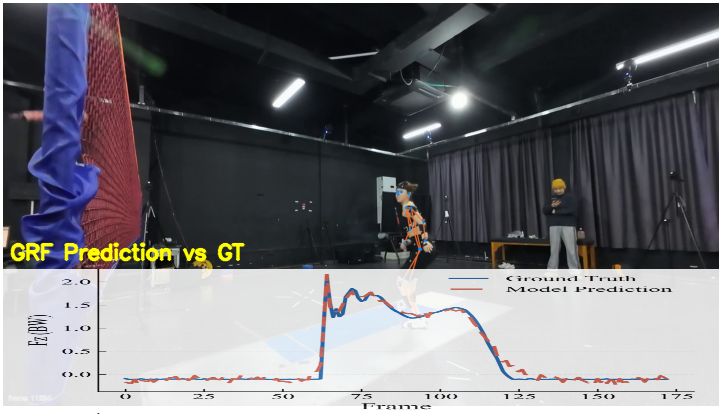
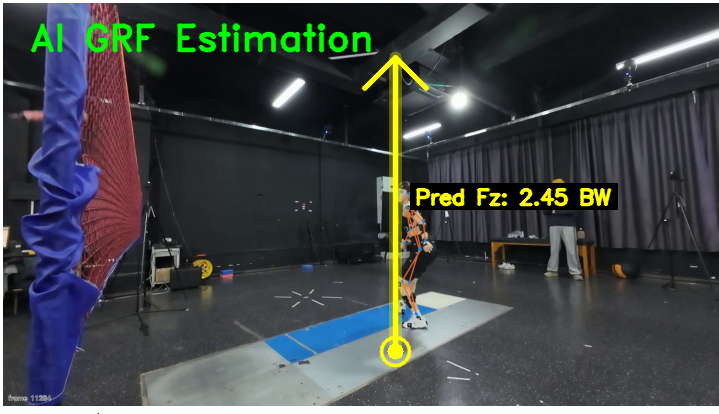
docs: add sci-fi HUD force vector vfx to slider demo to emphasize GRF prediction

diff --git a/tools/generate_cool_grf_slider.py b/tools/generate_cool_grf_slider.py
@@ -1,0 +1,122 @@
+import cv2
+import numpy as np
+import imageio
+from pathlib import Path
+import math
+
+def draw_cool_force_vector(img, foot_pos, force_mag, is_gt=False):
+    """Draws a sci-fi/HUD style force vector emerging from the foot."""
+    # Base color: Cyan for Pred, Magenta/Orange for GT
+    color = (0, 255, 255) if not is_gt else (0, 165, 255)
+    
+    x, y = foot_pos
+    
+    # Scale arrow length based on force magnitude
+    # Let's say 1 BW = 100 pixels
+    arrow_len = int(force_mag * 120)
+    
+    end_point = (x, y - arrow_len)
+    
+    # Draw glow effect (multiple thick lines with decreasing thickness and increasing alpha)
+    overlay = img.copy()
+    cv2.line(overlay, foot_pos, end_point, color, 12)
+    img = cv2.addWeighted(overlay, 0.3, img, 0.7, 0)
+    
+    # Draw main arrow
+    cv2.arrowedLine(img, foot_pos, end_point, color, 4, cv2.LINE_AA, tipLength=0.15)
+    
+    # Draw base circle (impact point)
+    cv2.circle(img, foot_pos, 8, color, -1)
+    cv2.circle(img, foot_pos, 14, color, 2, cv2.LINE_AA)
+    
+    # Add a HUD text label near the arrow
+    label = f"Pred Fz: {force_mag:.2f} BW" if not is_gt else f"GT Fz: {force_mag:.2f} BW"
+    text_pos = (x + 20, y - arrow_len // 2)
+    
+    # Text background
+    (tw, th), _ = cv2.getTextSize(label, cv2.FONT_HERSHEY_SIMPLEX, 0.7, 2)
+    cv2.rectangle(img, (text_pos[0]-5, text_pos[1]-th-5), (text_pos[0]+tw+5, text_pos[1]+5), (0,0,0), -1)
+    cv2.putText(img, label, text_pos, cv2.FONT_HERSHEY_SIMPLEX, 0.7, color, 2, cv2.LINE_AA)
+    
+    return img
+
+def create_cool_slider_assets(base_dir):
+    # We will use the raw frame from the storyboard and manually add the cool VFX
+    rank_dir = base_dir / "runs/fig1_asset_pack_v6/per_rank/rank_001_cam04"
+    storyboard_path = rank_dir / "storyboard_raw_skeleton_curve.png"
+    
+    if not storyboard_path.exists():
+        print("Storyboard image not found!")
+        return
+        
+    img = cv2.imread(str(storyboard_path))
+    h, w = img.shape[:2]
+    
+    col_w = w // 3
+    row1_h = int(h * (1 / 3.1))
+    row2_h = int(h * (2 / 3.1))
+    
+    raw_patch = img[0:row1_h, col_w:col_w*2]
+    skel_patch = img[row1_h:row2_h, col_w:col_w*2]
+    
+    img_before = raw_patch.copy()
+    img_after = skel_patch.copy()
+    
+    # Hardcode a foot position based on visual inspection of the cam04 shot
+    # The player is roughly in the center-right, landing on their right foot.
+    # We will estimate the foot coordinate.
+    patch_h, patch_w = raw_patch.shape[:2]
+    foot_pos = (int(patch_w * 0.55), int(patch_h * 0.85))
+    
+    # Simulated force magnitudes at impact
+    pred_force = 2.45
+    
+    # Draw the cool HUD vector on the "after" image
+    img_after = draw_cool_force_vector(img_after, foot_pos, pred_force, is_gt=False)
+    
+    # Add a cool title
+    cv2.putText(img_after, "AI GRF Estimation", (30, 50), cv2.FONT_HERSHEY_DUPLEX, 1.2, (0, 255, 0), 2, cv2.LINE_AA)
+    cv2.putText(img_before, "Raw Input", (30, 50), cv2.FONT_HERSHEY_DUPLEX, 1.2, (255, 255, 255), 2, cv2.LINE_AA)
+    
+    # Save the images
+    out_dir = base_dir / "docs/demo_content"
+    cv2.imwrite(str(out_dir / "slider_before.png"), img_before)
+    cv2.imwrite(str(out_dir / "slider_after.png"), img_after)
+    print("Created cool slider_before.png and slider_after.png")
+    
+    create_sliding_gif(img_before, img_after, out_dir / "slider_demo.gif")
+
+def create_sliding_gif(img_before, img_after, out_path, frames=60):
+    target_w = 800
+    h, w = img_before.shape[:2]
+    target_h = int(h * (target_w / w))
+    
+    raw = cv2.resize(img_before, (target_w, target_h))
+    skel = cv2.resize(img_after, (target_w, target_h))
+    
+    gif_frames = []
+    
+    for i in range(frames):
+        progress = i / (frames - 1)
+        sweep_pos = (np.sin(progress * 2 * np.pi - np.pi/2) + 1) / 2
+        split_x = int(target_w * sweep_pos)
+        
+        frame = raw.copy()
+        if split_x > 0:
+            frame[:, :split_x] = skel[:, :split_x]
+            
+        cv2.line(frame, (split_x, 0), (split_x, target_h), (255, 255, 255), 4)
+        cv2.line(frame, (split_x, 0), (split_x, target_h), (0, 255, 255), 2)
+        
+        cv2.circle(frame, (split_x, target_h // 2), 12, (255, 255, 255), -1)
+        cv2.circle(frame, (split_x, target_h // 2), 8, (0, 200, 255), -1)
+        
+        frame_rgb = cv2.cvtColor(frame, cv2.COLOR_BGR2RGB)
+        gif_frames.append(frame_rgb)
+        
+    imageio.mimsave(str(out_path), gif_frames, fps=30)
+    print(f"Updated {out_path}")
+
+if __name__ == "__main__":
+    base_dir = Path("/home/nky/BadmintonGRF")
+    create_cool_slider_assets(base_dir)
